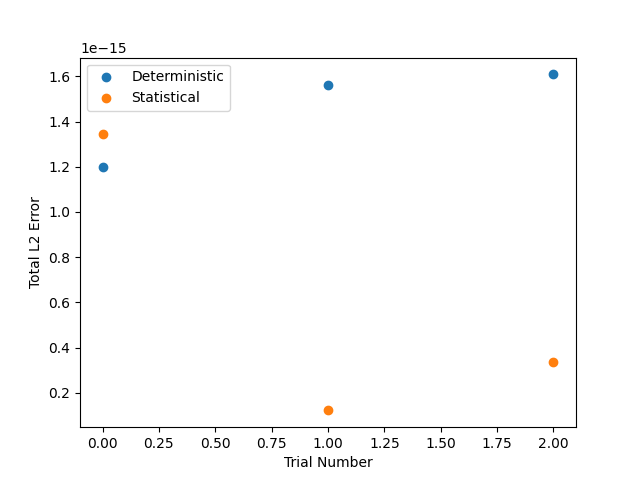
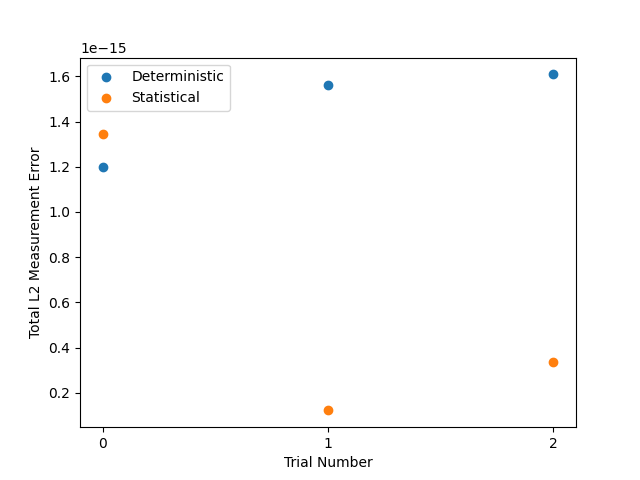
Integer x axis for trials

diff --git a/ps6_attitude_determination.py b/ps6_attitude_determination.py
@@ -5,6 +5,8 @@ Test out the attitude estimation code on a robust suite of examples.
 import numpy as np
 import matplotlib.pyplot as plt
 
+from matplotlib.ticker import MaxNLocator
+
 import source.attitude_estimation as att_est
 import source.rotation as rotation
 # import source.attitudes as att
@@ -329,7 +331,11 @@ def plot_final_results(final_results, save_path):
         plt.scatter(range(num_ex), ex_quest_total_errors, label="Statistical")
         plt.legend()
         plt.xlabel("Trial Number")
-        plt.ylabel("Total L2 Error")
+        plt.ylabel("Total L2 Measurement Error")
+
+        ax = fig.gca()
+        ax.xaxis.set_major_locator(MaxNLocator(integer=True))
+
         plt.show()
 
         # Save the figure
